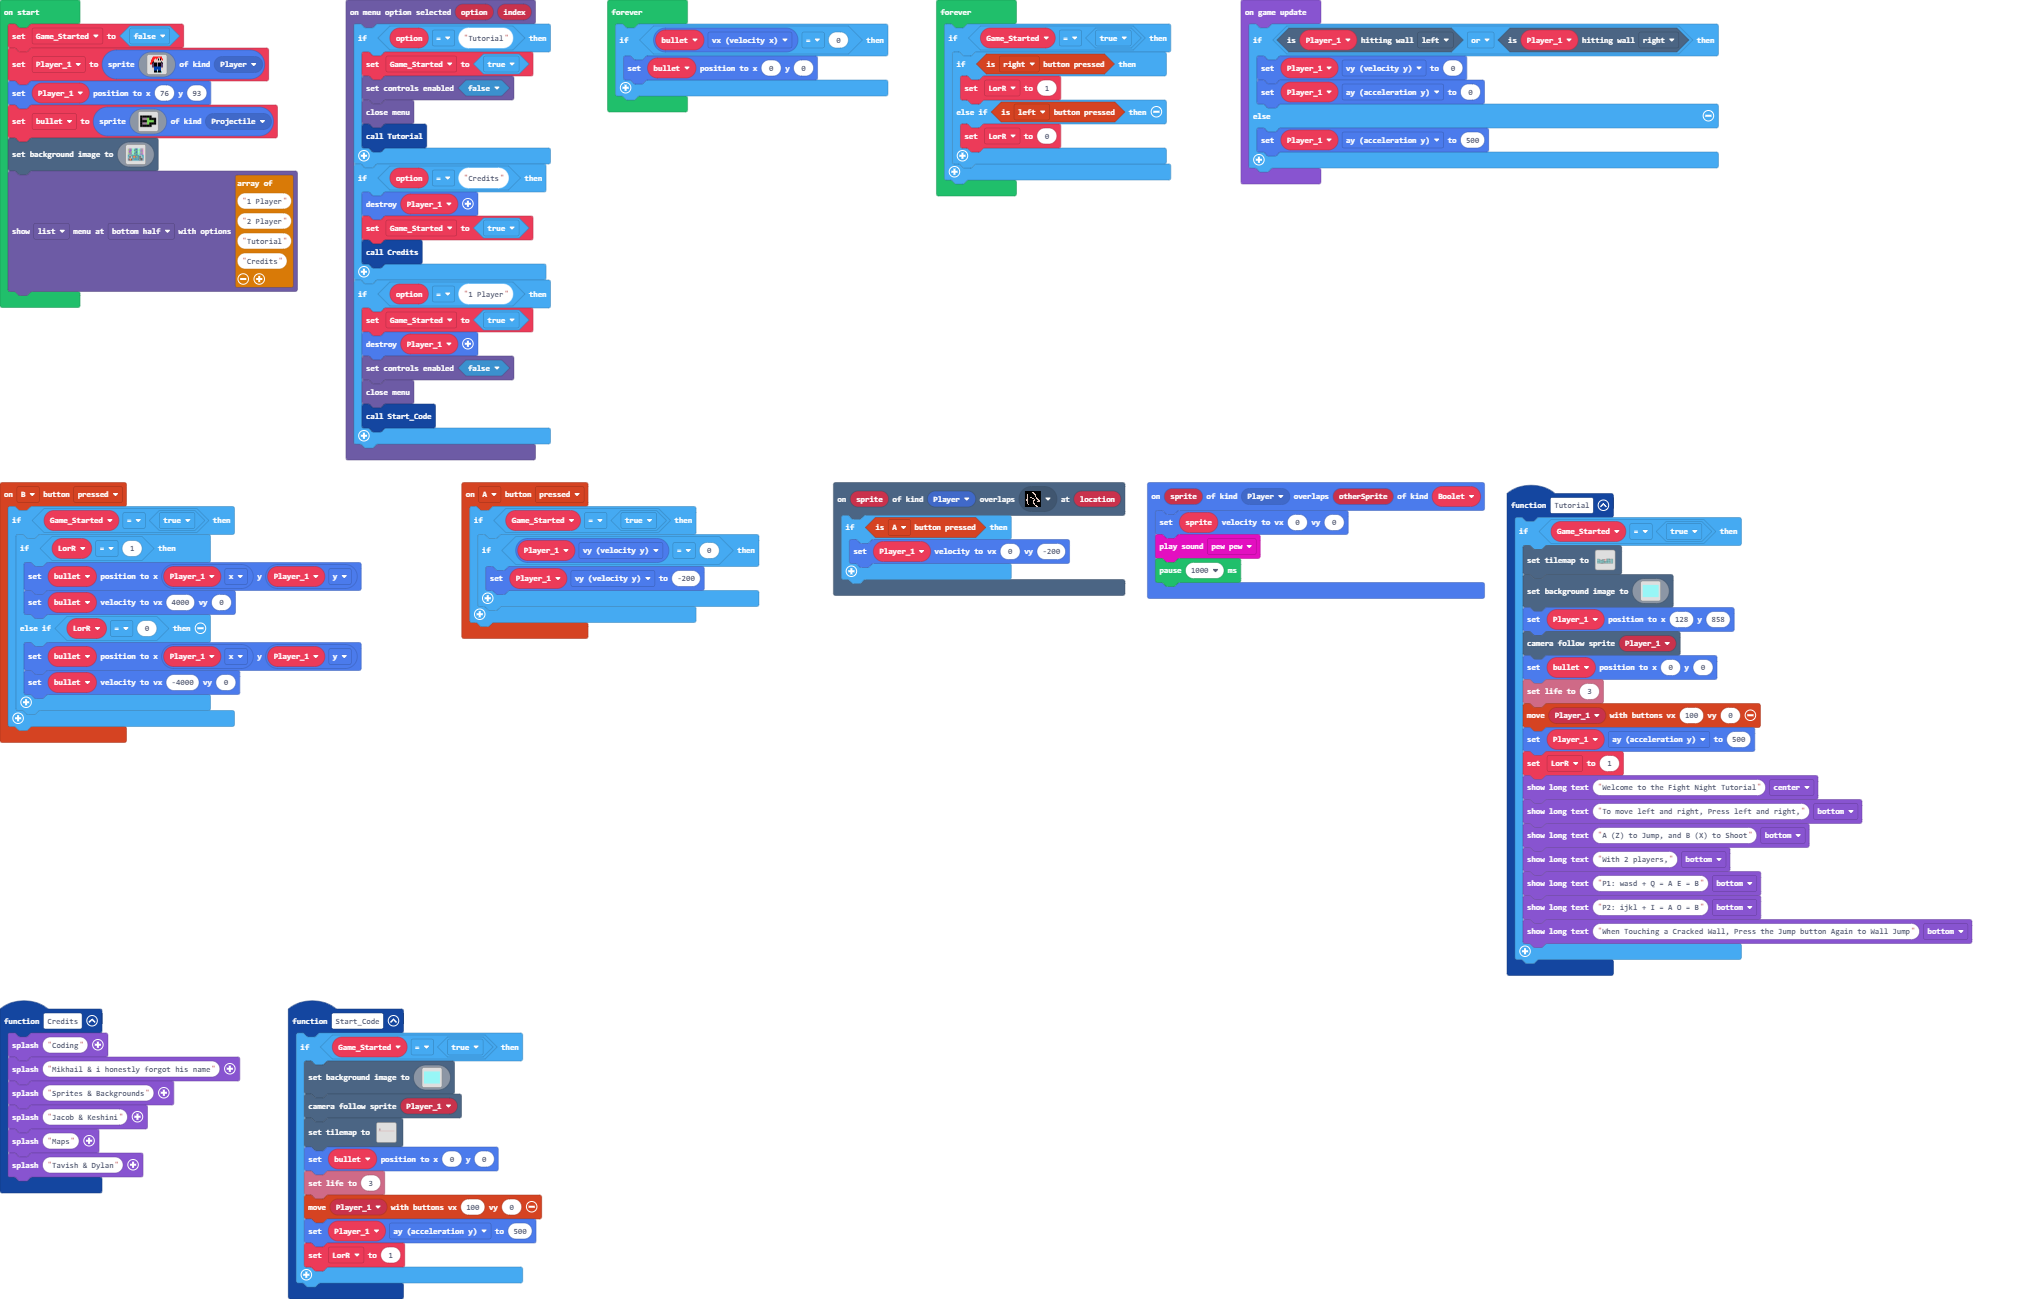
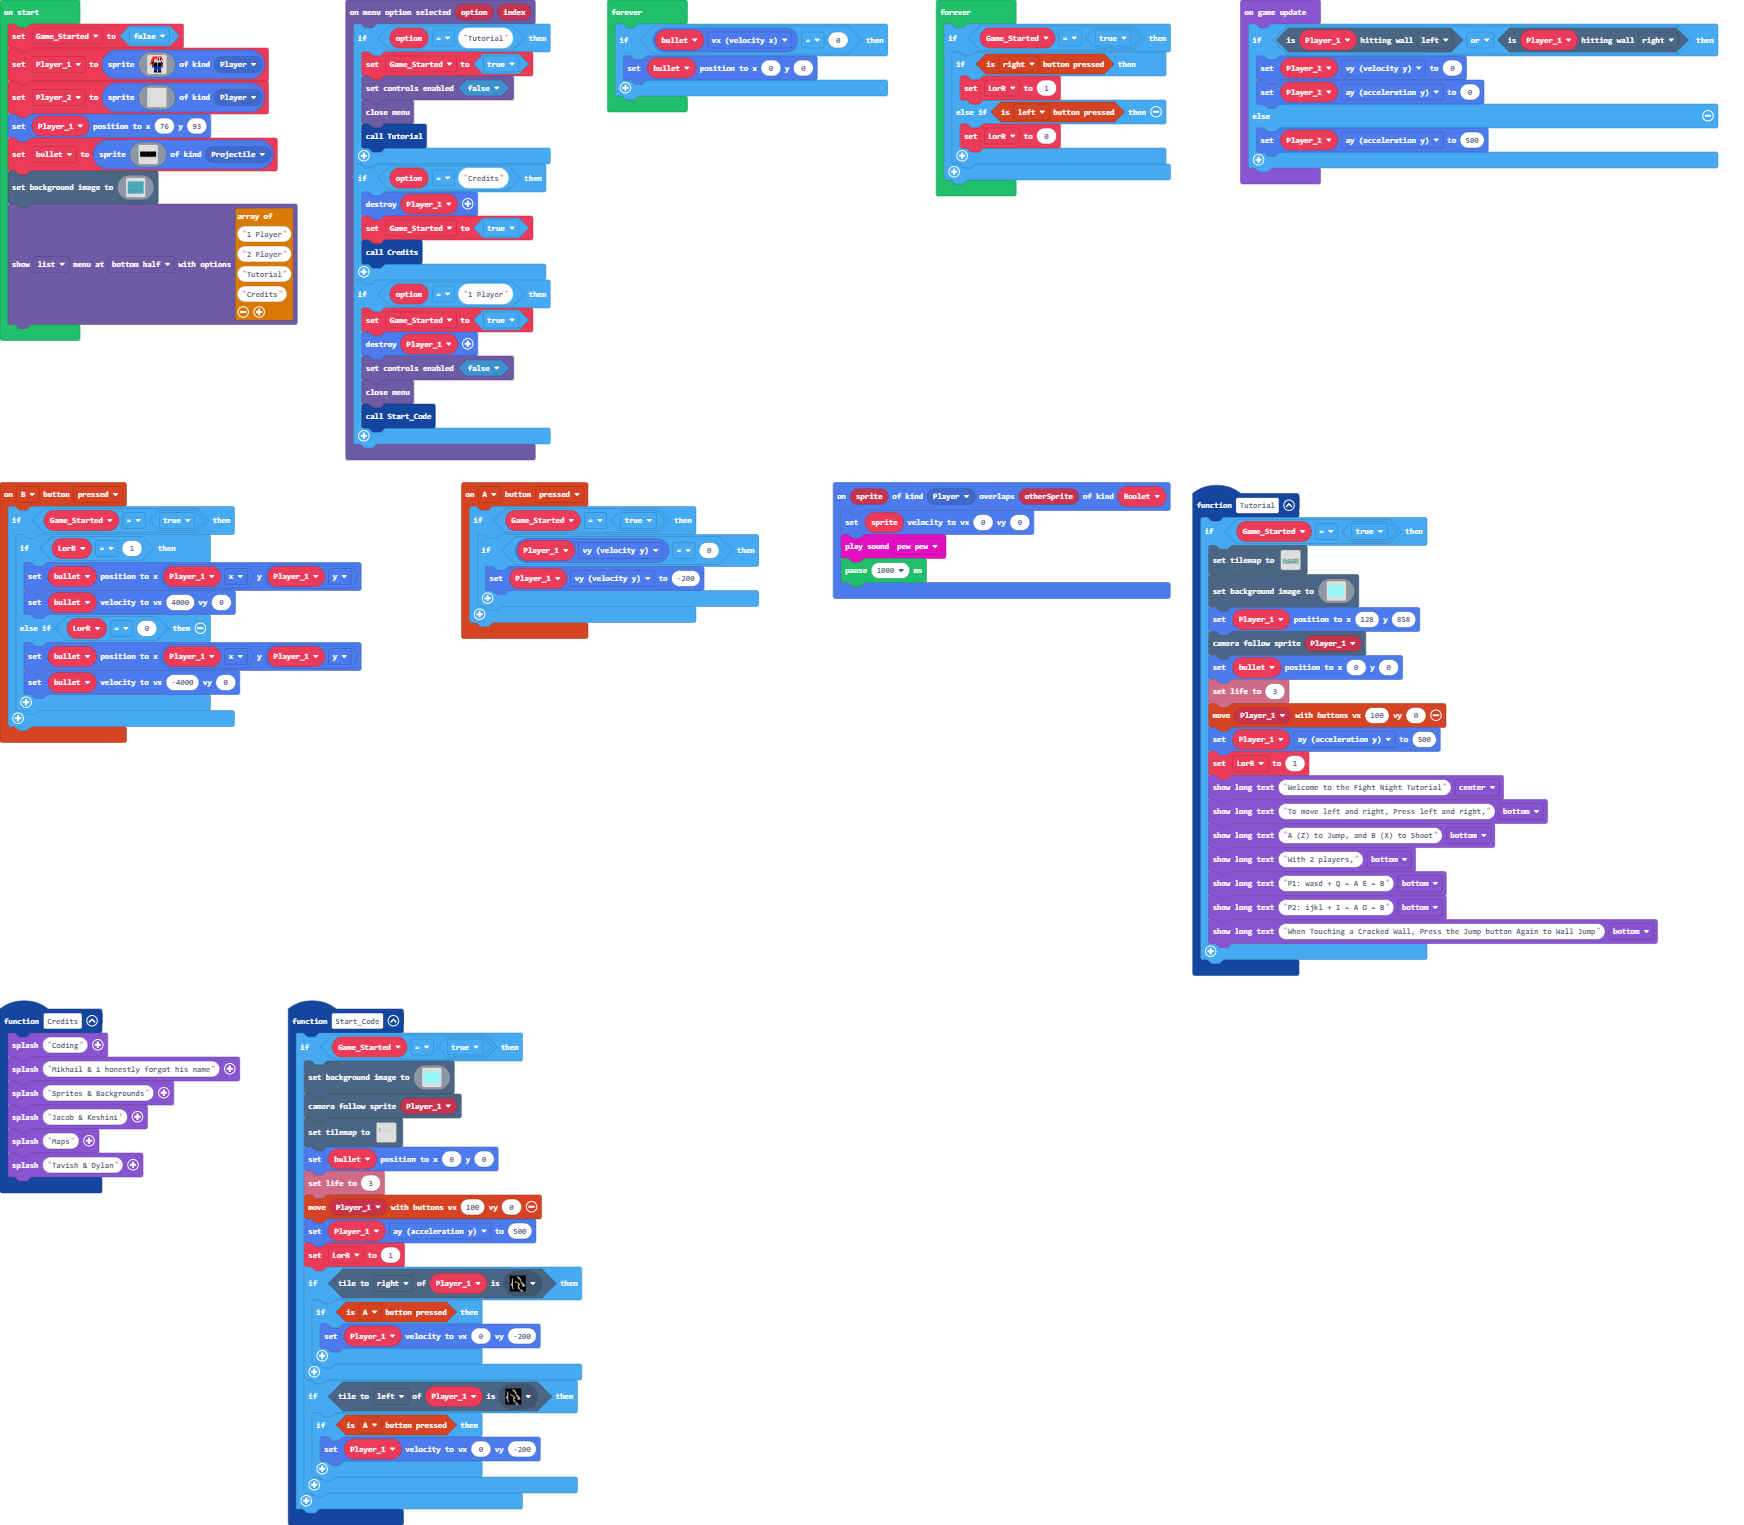
Update main.blocks, main.ts

diff --git a/main.ts b/main.ts
@@ -352,6 +352,24 @@ Player_1 = sprites.create(img`
     . . . . . f f f . f f f . . . . 
     . . . . . f f f 6 f f f 6 . . . 
     `, SpriteKind.Player)
+let Player_2 = sprites.create(img`
+    . . . . . . . . . . . . . . . . 
+    . . . . . . . . . . . . . . . . 
+    . . . . . . . . . . . . . . . . 
+    . . . . . . . . . . . . . . . . 
+    . . . . . . . . . . . . . . . . 
+    . . . . . . . . . . . . . . . . 
+    . . . . . . . . . . . . . . . . 
+    . . . . . . . . . . . . . . . . 
+    . . . . . . . . . . . . . . . . 
+    . . . . . . . . . . . . . . . . 
+    . . . . . . . . . . . . . . . . 
+    . . . . . . . . . . . . . . . . 
+    . . . . . . . . . . . . . . . . 
+    . . . . . . . . . . . . . . . . 
+    . . . . . . . . . . . . . . . . 
+    . . . . . . . . . . . . . . . . 
+    `, SpriteKind.Player)
 Player_1.setPosition(76, 93)
 bullet = sprites.create(assets.image`Boolet`, SpriteKind.Projectile)
 scene.setBackgroundImage(assets.image`Main Menu Background`)
